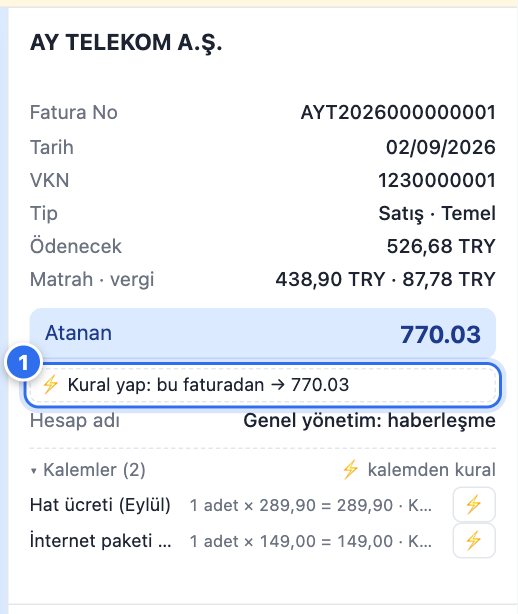
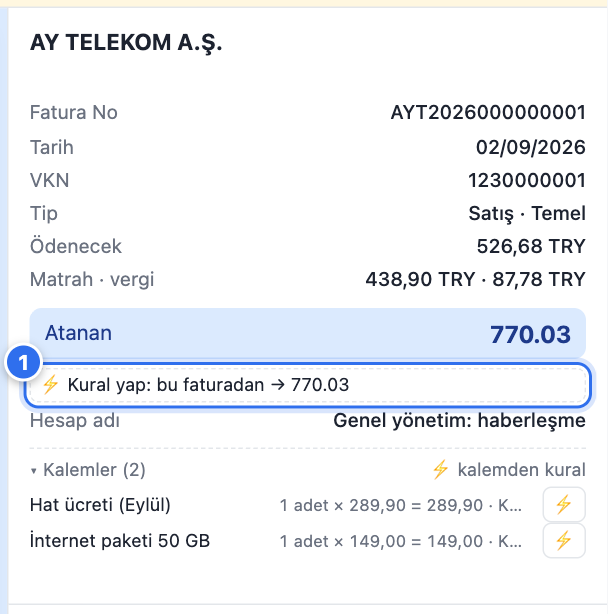
Fatura görüntüsü: kenar boşlukları kırpılır, kendiliğinden yakınlaştırma (genişliğe sığdır), Ctrl+tekerlek ve −/+ ile kalıcı yakınlaştırma; liste paneli 400 px
Şablonların sayfa kenarlarına bıraktığı beyaz alan ölçülüp kırpılır (yalnızca ekranda; yazdırma
olduğu gibi). Varsayılan yakınlaştırma içeriği görüntü genişliğine sığdırır (A4'te üst yarı
görünür); akan şablonlarda A4 genişliği varsayılır. Ctrl + tekerlek çerçeve içinde ve dışında,
sağ altta − / %N / + rozeti ("oto" kendiliğindene döner); seçim settings.viewZoom ile kalıcı.
Ayarlar › Görünüm'e yakınlaştırma bölümü; başlangıç konumu seçimi (en üstten / kaldığım yer)
korundu. Rehber ve görseller güncel; view-zoom-e2e testi.

diff --git a/src/ui/InvoiceView.tsx b/src/ui/InvoiceView.tsx
@@ -4,14 +4,83 @@ import * as S from './state';
 
 let lastScroll = 0;
 
-/** Faturanın resmî görünümü: XML + XSLT dönüşümü, betiksiz (sandbox) bir çerçevede. */
+export const ZOOM_MIN = 0.3;
+export const ZOOM_MAX = 4;
+const PAD = 10;
+
+interface Crop { left: number; top: number; width: number; height: number }
+
+/**
+ * Çizilen faturanın gerçekten "boyalı" alanı: metin, görsel, arka planı ya da kenarlığı olan kutular.
+ * Şablonların sayfa kenarlarına bıraktığı beyaz boşluk böylece kırpılır. Ölçüm yakınlaştırma 1'deyken yapılır.
+ */
+function contentBox(doc: Document): Crop | null {
+  const win = doc.defaultView;
+  if (!win || !doc.body) return null;
+  let l = Infinity, t = Infinity, r = -Infinity, b = -Infinity;
+  const add = (x: DOMRect) => { if (x.width <= 0 || x.height <= 0) return; l = Math.min(l, x.left); t = Math.min(t, x.top); r = Math.max(r, x.right); b = Math.max(b, x.bottom); };
+  const walker = doc.createTreeWalker(doc.body, NodeFilter.SHOW_TEXT | NodeFilter.SHOW_ELEMENT);
+  let n: Node | null = walker.nextNode();
+  let count = 0;
+  while (n && count < 20000) {
+    count++;
+    if (n.nodeType === Node.TEXT_NODE) {
+      if ((n.textContent ?? '').trim()) { const range = doc.createRange(); range.selectNodeContents(n); add(range.getBoundingClientRect()); }
+    } else {
+      const el = n as Element;
+      const tag = el.tagName;
+      if (tag === 'SCRIPT' || tag === 'STYLE' || tag === 'HEAD') { n = walker.nextNode(); continue; }
+      if (tag === 'IMG' || tag === 'SVG' || tag === 'CANVAS' || tag === 'HR') add(el.getBoundingClientRect());
+      else {
+        const cs = win.getComputedStyle(el);
+        if (cs.display === 'none' || cs.visibility === 'hidden') { n = walker.nextNode(); continue; }
+        const bg = cs.backgroundColor;
+        const painted = (bg && bg !== 'rgba(0, 0, 0, 0)' && bg !== 'transparent' && bg !== 'rgb(255, 255, 255)') || cs.backgroundImage !== 'none'
+          || ['Top', 'Right', 'Bottom', 'Left'].some((s) => parseFloat(cs.getPropertyValue(`border-${s.toLowerCase()}-width`)) > 0 && cs.getPropertyValue(`border-${s.toLowerCase()}-style`) !== 'none');
+        if (painted) add(el.getBoundingClientRect());
+      }
+    }
+    n = walker.nextNode();
+  }
+  if (!Number.isFinite(l)) return null;
+  const sx = win.scrollX, sy = win.scrollY;
+  return { left: Math.max(0, l + sx - PAD), top: Math.max(0, t + sy - PAD), width: r - l + PAD * 2, height: b - t + PAD * 2 };
+}
+
+/** Kırpma + yakınlaştırma stilini çerçeveye yazar (yalnızca ekranda; yazdırmada sayfa olduğu gibi kalır). */
+function applyView(doc: Document, crop: Crop | null, zoom: number) {
+  let st = doc.getElementById('__view') as HTMLStyleElement | null;
+  if (!st) { st = doc.createElement('style'); st.id = '__view'; (doc.body ?? doc.documentElement).appendChild(st); }
+  const margin = crop ? `margin:${-crop.top}px 0 0 ${-crop.left}px !important;` : '';
+  st.textContent = `@media screen{html{zoom:${zoom} !important;${margin}}body{margin:0 !important;max-width:none !important}}`;
+}
+
+/** A4 genişliği (96 dpi, piksel): pencereye göre akan (sabit genişliği olmayan) şablonlar bu genişlikte bir sayfa gibi yakınlaştırılır */
+const A4_W = 794;
+
+/**
+ * Kendiliğinden yakınlaştırma: kırpılmış içerik görüntü alanının genişliğini doldurur. A4 oranlı bir sayfada bu,
+ * ekranda sayfanın üst yarısının (yaklaşık) görünmesi demektir; uzun faturalarda daha azı görünür, kaydırılır.
+ * Akan şablonlarda (içerik genişliği pencereye bağlı) A4 genişliğindeki bir sayfa gibi davranılır.
+ */
+function autoZoom(crop: Crop | null, vw: number, docW: number): number {
+  if (!crop || vw <= 0) return 1;
+  const fluid = crop.width >= docW * 0.9;
+  const z = vw / Math.max(fluid ? A4_W : crop.width, 1);
+  return Math.min(2.5, Math.max(0.8, z));
+}
+
+/** Faturanın resmî görünümü: XML + XSLT dönüşümü, betiksiz (sandbox) bir çerçevede; kenar boşlukları kırpılır, yakınlaştırılır. */
 export function InvoiceView(props: { invoiceNo: string; viewMode: ViewMode; marginPx: number }) {
   const { invoiceNo, viewMode, marginPx } = props;
   const frame = useRef<HTMLIFrameElement>(null);
+  const crop = useRef<Crop | null>(null);
   const [status, setStatus] = useState<'loading' | 'ready' | 'error'>('loading');
   const [official, setOfficial] = useState(true);
   const [html, setHtml] = useState<string>('');
+  const [zoom, setZoom] = useState(1);
   const dark = S.settings.value.theme === 'dark';
+  const userZoom = S.settings.value.viewZoom;
 
   useEffect(() => {
     let cancelled = false;
@@ -32,20 +101,64 @@ export function InvoiceView(props: { invoiceNo: string; viewMode: ViewMode; marg
     };
   }, [invoiceNo]);
 
+  const effectiveZoom = (): number => {
+    const f = frame.current;
+    if (userZoom != null) return userZoom;
+    return autoZoom(crop.current, f?.clientWidth ?? 0, f?.contentDocument?.documentElement.clientWidth ?? 0);
+  };
+
+  /** Kullanıcı yakınlaştırmasını değiştirir (null = kendiliğinden); ayar kalıcıdır. */
+  const changeZoom = (next: number | null) => {
+    const z = next == null ? null : Math.min(ZOOM_MAX, Math.max(ZOOM_MIN, Math.round(next * 100) / 100));
+    S.updateSettings({ viewZoom: z });
+  };
+
+  // Yakınlaştırma ayarı değişince çerçeveye uygula
+  useEffect(() => {
+    const doc = frame.current?.contentDocument;
+    if (!doc || status !== 'ready') return;
+    const z = effectiveZoom();
+    try { applyView(doc, crop.current, z); } catch { /* yok say */ }
+    setZoom(z);
+  }, [userZoom, status]);
+
   const onLoad = () => {
-    const w = frame.current?.contentWindow;
-    if (!w) return;
+    const f = frame.current;
+    const w = f?.contentWindow;
+    const doc = f?.contentDocument;
+    if (!w || !doc) return;
     try {
+      // 1) yakınlaştırma 1 ve kenar boşluksuz gövdede ölç, 2) kırp + yakınlaştır
+      applyView(doc, null, 1);
+      crop.current = contentBox(doc);
+      const z = effectiveZoom();
+      applyView(doc, crop.current, z);
+      setZoom(z);
       if (viewMode === 'top') w.scrollTo(0, 0);
       else if (viewMode === 'margin') w.scrollTo(0, marginPx);
       else w.scrollTo(0, lastScroll);
       w.addEventListener('scroll', () => { lastScroll = w.scrollY; });
+      // Ctrl + fare tekerleği: yakınlaştır / uzaklaştır (tarayıcı yakınlaştırması engellenir)
+      doc.addEventListener('wheel', (e: WheelEvent) => {
+        if (!e.ctrlKey && !e.metaKey) return;
+        e.preventDefault();
+        const cur = S.settings.value.viewZoom ?? effectiveZoom();
+        changeZoom(cur * Math.pow(1.1, -e.deltaY / 100));
+      }, { passive: false });
     } catch { /* erişim yoksa yok say */ }
     setStatus('ready');
   };
 
+  // Çerçeve dışında (kenar boşluğu, düğmeler) Ctrl + tekerlek de yakınlaştırsın; tarayıcı yakınlaştırması engellenir
+  const onWheel = (e: WheelEvent) => {
+    if (!e.ctrlKey && !e.metaKey) return;
+    e.preventDefault();
+    const cur = S.settings.value.viewZoom ?? effectiveZoom();
+    changeZoom(cur * Math.pow(1.1, -e.deltaY / 100));
+  };
+
   return (
-    <div class={`inv-view ${dark ? 'dim' : ''}`}>
+    <div class={`inv-view ${dark ? 'dim' : ''}`} onWheel={onWheel}>
       {html && (
         <iframe
           ref={frame}
@@ -55,6 +168,13 @@ export function InvoiceView(props: { invoiceNo: string; viewMode: ViewMode; marg
           srcdoc={html}
           onLoad={onLoad}
         />
+      )}
+      {status === 'ready' && (
+        <div class="view-zoom" title="Yakınlaştırma: Ctrl + fare tekerleği ya da − / +. 'Oto': sayfanın üst yarısı ekranı doldurur.">
+          <button class="ghost tiny" onClick={() => changeZoom(zoom / 1.2)} title="Uzaklaştır">−</button>
+          <button class={`ghost tiny zoom-pct ${userZoom == null ? 'auto' : ''}`} onClick={() => changeZoom(null)} title={userZoom == null ? 'Kendiliğinden (üst yarı ekranı doldurur)' : "Kendiliğinden yakınlaştırmaya dön"}>{Math.round(zoom * 100)}%{userZoom == null ? ' oto' : ''}</button>
+          <button class="ghost tiny" onClick={() => changeZoom(zoom * 1.2)} title="Yakınlaştır">+</button>
+        </div>
       )}
       {status === 'loading' && <div class="pdf-status">Fatura çiziliyor…</div>}
       {status === 'error' && <div class="pdf-status">Fatura görseli çizilemedi.</div>}

diff --git a/src/ui/guide/sections.tsx b/src/ui/guide/sections.tsx
@@ -31,6 +31,7 @@ export const sections: Section[] = [
           <><b>Fatura</b>: XML'in içindeki resmî şablonla çizilir; EDM'deki PDF ile aynı görünür. Zemin rengi, verilen kodun yuva rengidir.</>,
           <><b>Sağ panel</b>: seçili faturanın bilgileri, verilen kod, arama ve liste.</>,
           <><b>Alt çubuk</b>: altı <T t="kısayol" /> yuvası, <T t="durum kartı" />, <T t="ilerleme kartı" />, elle giriş.</>,
+                  <>Fatura görüntüsü: şablonun kenar boşlukları kırpılır, sayfa ekran genişliğini doldurur (A4'te üst yarısı görünür). <K k="Ctrl" /> + fare tekerleği ya da sağ alttaki − / + ile yakınlaştırın; seçiminiz bütün faturalarda korunur, "oto" kendiliğindene döndürür.</>,
         ]} />
         <Shot src="03-ustcubuk.png" alt="Üst çubuk" notes={[
           <>Firma menüsü; en altta <b>+ Yeni firma…</b></>,
@@ -276,10 +277,12 @@ export const keys: [string, string][] = [
   ['F5', 'Önizleme'],
   ['F1', 'Excel üret'],
   ['Ctrl+P  Ctrl+Shift+P', 'Açık faturayı yazdır / yazdırma planı'],
+  ['Ctrl+tekerlek', 'Fatura görüntüsünü yakınlaştır / uzaklaştır (sağ alttaki − / + de olur)'],
 ];
 
 export const troubles: [string, string][] = [
   ['Yükledim, bazı dosyalar "okunamadı"', 'Fatura olmayan XML\'ler (irsaliye, yanıt, zarf) normaldir. Bozuk görünen bir fatura varsa EDM\'den yeniden indirin.'],
+  ['Fatura görüntüsü küçük ya da kesik görünüyor', 'Ctrl + fare tekerleği ile yakınlaştırın; sağ alttaki "oto" kendiliğinden ölçüye döndürür. Ayarlar › Görünüm\'den yeni faturaya geçince en üstten mi, kaldığınız yerden mi başlayacağını seçin.'],
   ['Fatura görüntüsü yerine kart görünüyor', 'O faturanın XML\'i yok (EDM listesinden ya da arşivden geldi). XML\'ini yükleyin, görüntü gelir; atama korunur.'],
   ['Q tuşu "yuva boş" diyor', 'Alt çubukta o yuvaya tıklayıp bir kod yazın. Yuvalar kendiliğinden dolmaz.'],
   ['Kod verdim ama listede göremiyorum', 'Süzgeç "Atanmamış" olabilir; "Tümü" yapın. Toplu/kural atananlar gezerken atlanır; Ctrl+ok ile görülür.'],

diff --git a/src/ui/styles.css b/src/ui/styles.css
@@ -37,7 +37,7 @@ input:focus, select:focus { outline: 2px solid var(--accent); outline-offset: 0;
 .progress { color: var(--muted); } .progress b { color: var(--ink); } .dirty { color: var(--warn); } .saved { color: var(--ok); }
 
 .welcome { display: grid; place-content: center; text-align: center; padding: 24px; max-width: 640px; margin: 0 auto; }
-.work { display: grid; grid-template-columns: 1fr 340px; min-height: 0; }
+.work { display: grid; grid-template-columns: 1fr 400px; min-height: 0; }
 .viewer { position: relative; min-height: 0; display: flex; background: var(--neutral); transition: background .25s; }
 .viewer.slot-bg-0 { background: var(--s0); } .viewer.slot-bg-1 { background: var(--s1); } .viewer.slot-bg-2 { background: var(--s2); }
 .viewer.slot-bg-3 { background: var(--s3); } .viewer.slot-bg-4 { background: var(--s4); } .viewer.slot-bg-5 { background: var(--s5); }
@@ -492,3 +492,9 @@ tr.iss-chart td.code-col { color: var(--warn); text-decoration: underline wavy v
 .line-name { overflow: hidden; text-overflow: ellipsis; white-space: nowrap; }
 .line-sub { font-size: 11px; white-space: nowrap; overflow: hidden; text-overflow: ellipsis; max-width: 170px; font-variant-numeric: tabular-nums; }
 .line-rule { padding: 0 5px; line-height: 18px; }
+
+/* Fatura görüntüsü: yakınlaştırma düğmeleri (sağ altta) */
+.view-zoom { position: absolute; right: 22px; bottom: 14px; display: flex; gap: 2px; align-items: center; background: color-mix(in srgb, var(--panel) 88%, transparent); border: 1px solid var(--line); border-radius: 999px; padding: 2px 4px; }
+.view-zoom button { min-width: 26px; }
+.view-zoom .zoom-pct { font-variant-numeric: tabular-nums; min-width: 60px; }
+.view-zoom .zoom-pct.auto { color: var(--muted); }

diff --git a/src/ui/SettingsModal.tsx b/src/ui/SettingsModal.tsx
@@ -106,6 +106,14 @@ export function SettingsModal() {
                   <div class="muted small">Üst çubuktaki ☰ Liste / ▣ Görsel düğmesiyle de değişir. Liste görünümünde satıra çift tıklamak o faturayı görsel görünümde açar.</div>
                 </fieldset>
                 <fieldset>
+                  <legend>Fatura görüntüsü: yakınlaştırma</legend>
+                  <div class="row-inline" style="justify-content:flex-start; gap:10px; flex-wrap:wrap">
+                    <span>{s.viewZoom == null ? 'Kendiliğinden: kenar boşlukları kırpılır, sayfanın üst yarısı ekranı doldurur.' : `Sabit: %${Math.round(s.viewZoom * 100)}`}</span>
+                    {s.viewZoom != null && <button class="tiny" onClick={() => S.updateSettings({ viewZoom: null })}>Kendiliğinden'e dön</button>}
+                  </div>
+                  <div class="muted small">Görüntü üstünde <kbd>Ctrl</kbd> + fare tekerleği ya da sağ alttaki − / + ile değiştirilir; seçiminiz bütün faturalarda ve sonraki açılışta korunur.</div>
+                </fieldset>
+                <fieldset>
                   <legend>Fatura görüntüsü: yeni faturaya geçince</legend>
                   {([['top', 'En üstten başlasın'], ['last', 'Son kaldığım yerden başlasın'], ['margin', 'Belirli bir yükseklikten başlasın']] as [ViewMode, string][]).map(([v, label]) => (
                     <label class="radio">

diff --git a/src/core/types.ts b/src/core/types.ts
@@ -85,6 +85,8 @@ export interface Settings {
   sortMode: SortMode;
   /** Kod verince sıradaki faturaya kendiliğinden geç (varsayılan kapalı: kullanıcı atamayı görüp kendisi geçer) */
   autoAdvance: boolean;
+  /** Fatura görüntüsü yakınlaştırması; null = kendiliğinden (sayfanın üst yarısı ekranı doldurur) */
+  viewZoom: number | null;
 }
 
 export const DEFAULT_SHORTCUT_KEYS = ['q', 'w', 'e', 'a', 's', 'd'] as const;
@@ -98,6 +100,7 @@ export const DEFAULT_SETTINGS: Settings = {
   theme: 'light',
   sortMode: 'date-supplier',
   autoAdvance: false,
+  viewZoom: null,
 };
 
 /** UBL-TR InvoiceTypeCode → EDM listesindeki "Fatura Tipi" etiketi */
